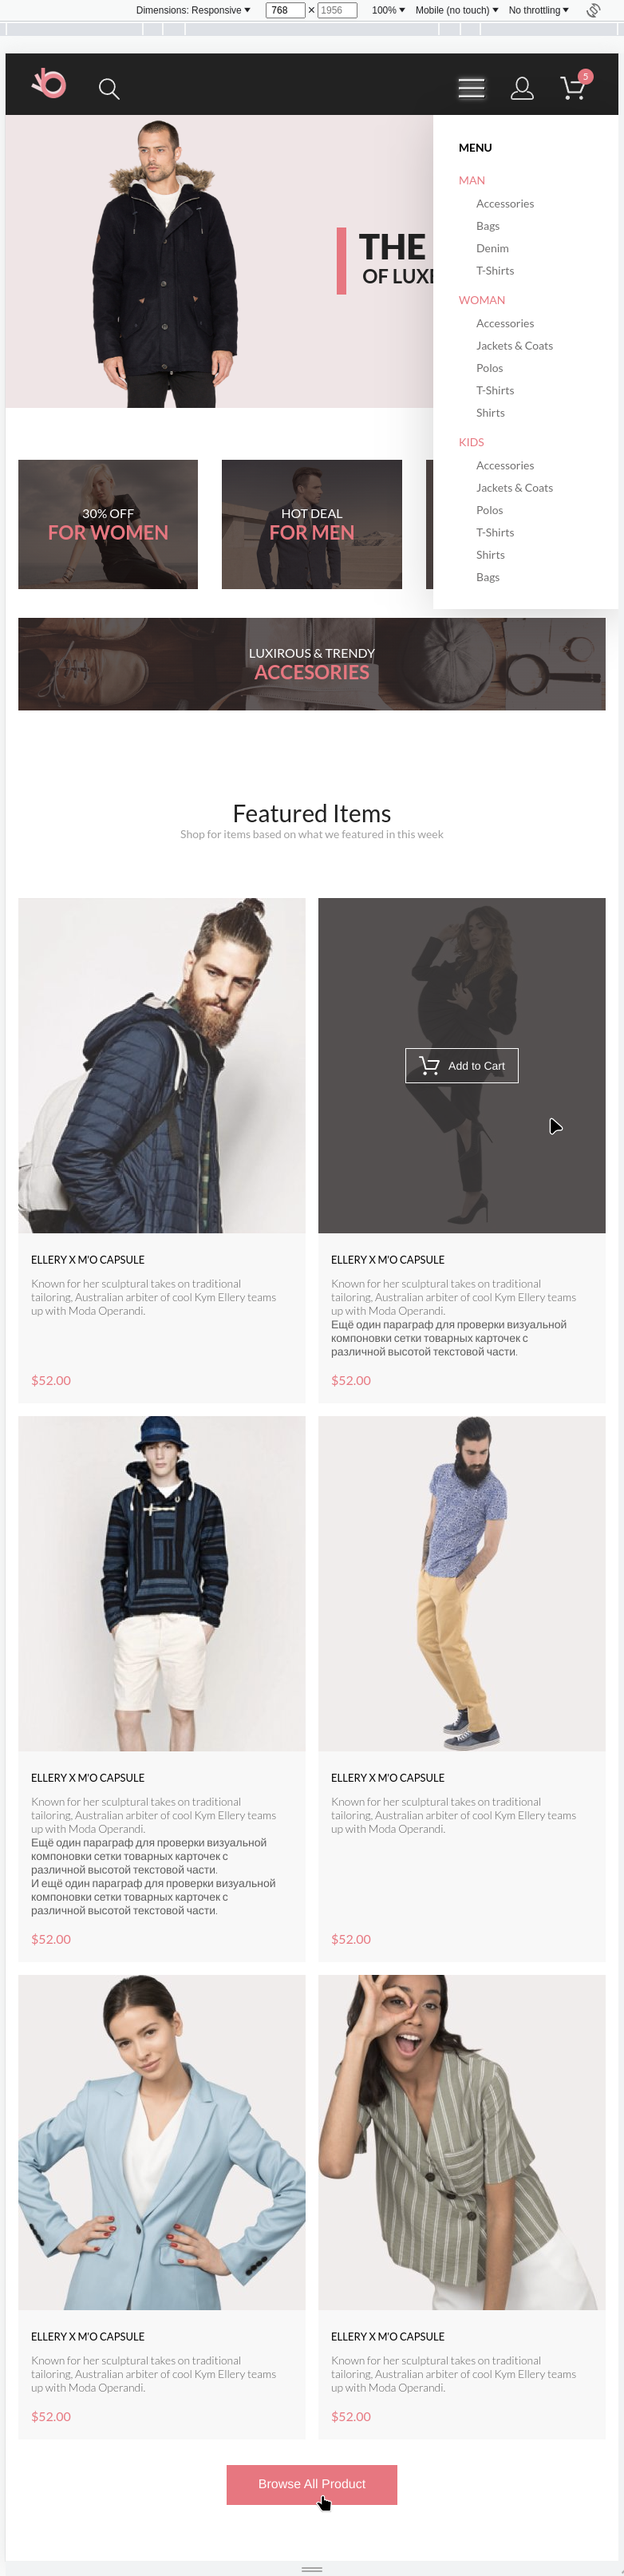
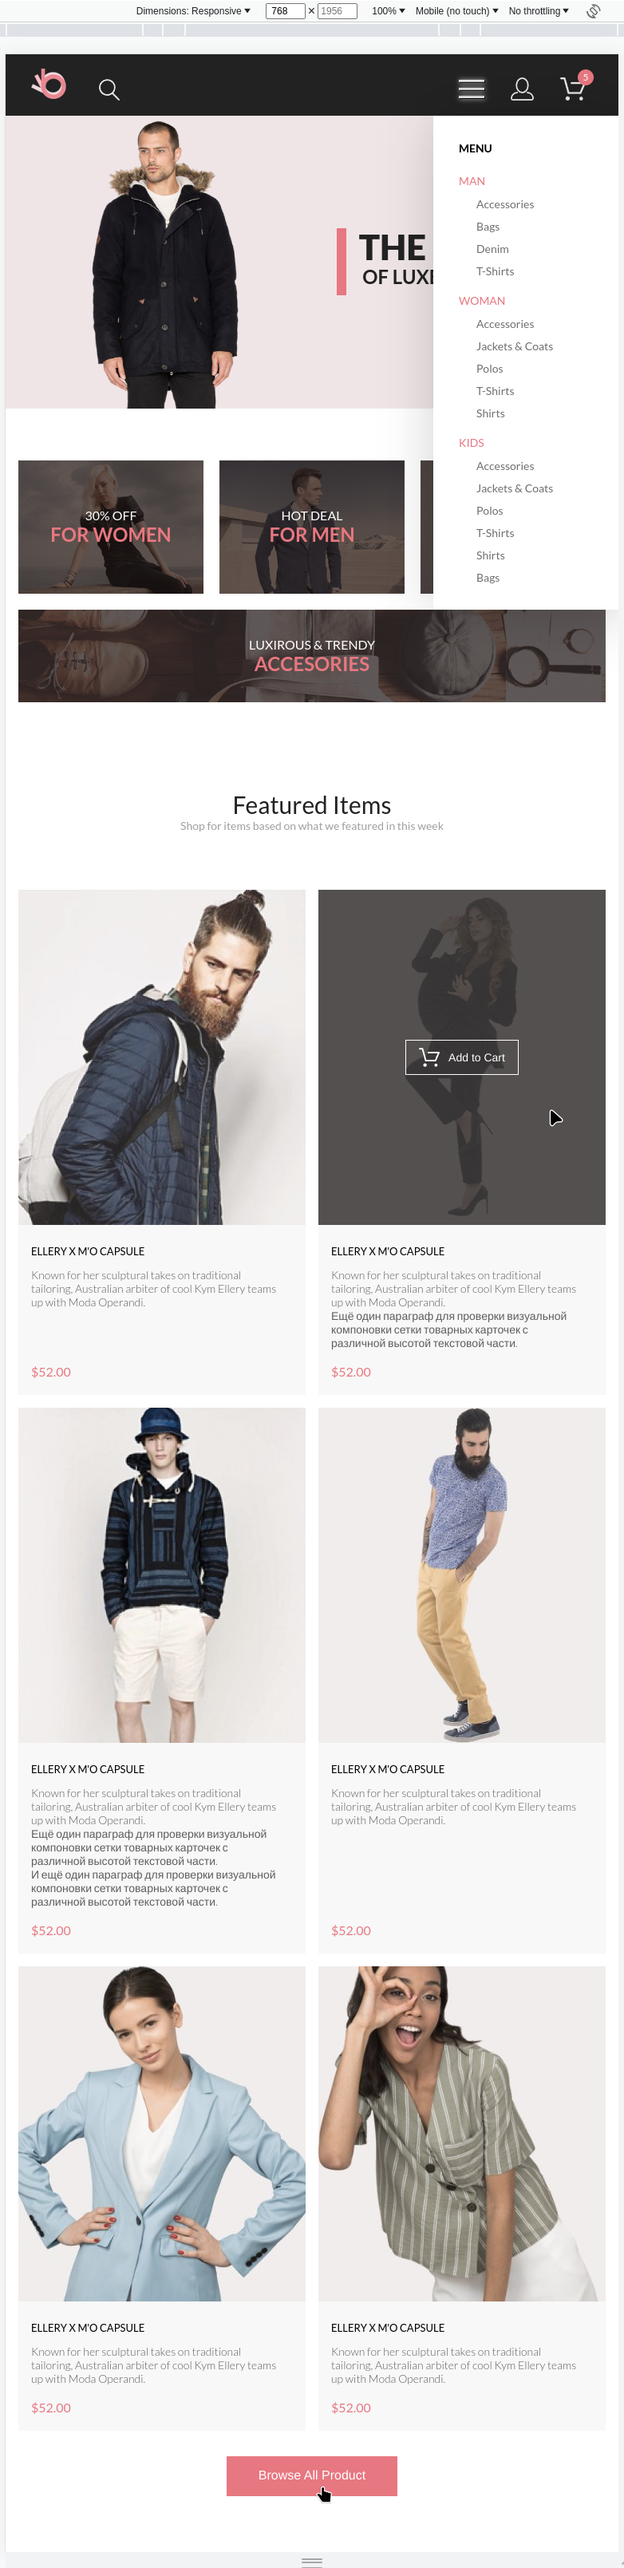
Updates and fixes mobile/tablet adaptations

diff --git a/hw8_mobile/style.css b/hw8_mobile/style.css
@@ -250,7 +250,8 @@ a {
 
 	display: grid;
 	/* grid-template-rows: 260px 180px; */
-	grid-template-rows: 26fr 18fr;
+	/* grid-template-rows: 26fr 18fr; */
+	grid-template-rows: repeat(2, auto);
 	grid-template-columns: repeat(3, 1fr);
 	grid-template-areas:
 		"women men kids"
@@ -259,8 +260,6 @@ a {
 }
 
 .offer__item {
-	position: relative;
-
 	display: flex;
 	flex-direction: column;
 	justify-content: center;
@@ -274,11 +273,11 @@ a {
 	--lightgray-bg: linear-gradient(var(--lightgray-color), var(--lightgray-color));
 }
 
-.offer__item.item_topline {
+.offer__item.item_common {
 	aspect-ratio: 36 / 26;
 }
 
-.offer__item.item_btmline {
+.offer__item.item_wide {
 	aspect-ratio: 114 / 18;
 }
 
@@ -473,6 +472,8 @@ a {
 	display: none;
 }
 
+/* TABLET */
+
 @media (max-width: 1024px) {
 
 	/* horiz spacing */
@@ -505,6 +506,7 @@ a {
 
 	.offer__content {
 		padding-bottom: 110px;
+		gap: 20px;
 	}
 
 	.products__items {
@@ -517,6 +519,8 @@ a {
 		padding-bottom: 70px;
 	}
 }
+
+/* MOBILE Hi */
 
 @media (max-width: 767px) {
 
@@ -543,7 +547,9 @@ a {
 	}
 }
 
-@media(max-width: 425px) {
+/* MOBILE Lo */
+
+@media(max-width: 426px) {
 
 	.no-mobile {
 		display: none;
@@ -580,7 +586,7 @@ a {
 		gap: 32px;
 	}
 
-	.offer__item.item_btmline {
+	.offer__item.item_wide {
 		padding-top: 30px;
 		padding-bottom: 30px;
 	}
@@ -588,7 +594,6 @@ a {
 	.products__items {
 		padding-top: 64px;
 		padding-bottom: 40px;
-
 	}
 
 	.products__content {

diff --git a/hw8_mobile/index.html b/hw8_mobile/index.html
@@ -104,19 +104,19 @@
 
 	<section class="offer  spacing_h">
 		<div class="offer__content  center">
-			<div class="offer__item item-women item_topline" role="button">
+			<div class="offer__item item-women item_common" role="button">
 				<h3 class="offer__subcategory  item__title">30% off</h3>
 				<h2 class="offer__category  item__title">For Women</h2>
 			</div>
-			<div class="offer__item item-men item_topline" role="button">
+			<div class="offer__item item-men item_common" role="button">
 				<h3 class="offer__subcategory  item__title">Hot deal</h3>
 				<h2 class="offer__category  item__title">For Men</h2>
 			</div>
-			<div class="offer__item item-kids item_topline" role="button">
+			<div class="offer__item item-kids item_common" role="button">
 				<h3 class="offer__subcategory  item__title">New arrivals</h3>
 				<h2 class="offer__category  item__title">For Kids</h2>
 			</div>
-			<div class="offer__item item-accessories item_btmline" role="button">
+			<div class="offer__item item-accessories item_wide" role="button">
 				<h3 class="offer__subcategory  item__title">Luxirous & trendy</h3>
 				<h2 class="offer__category  item__title">Accesories</h2>
 			</div>

diff --git a/hw7_tablet/index.html b/hw7_tablet/index.html
@@ -102,19 +102,19 @@
 
 	<section class="offer">
 		<div class="offer__content  center">
-			<div class="offer__item item-women item_topline" role="button">
+			<div class="offer__item item-women item_common" role="button">
 				<h3 class="offer__subcategory  item__title">30% off</h3>
 				<h2 class="offer__category  item__title">For Women</h2>
 			</div>
-			<div class="offer__item item-men item_topline" role="button">
+			<div class="offer__item item-men item_common" role="button">
 				<h3 class="offer__subcategory  item__title">Hot deal</h3>
 				<h2 class="offer__category  item__title">For Men</h2>
 			</div>
-			<div class="offer__item item-kids item_topline" role="button">
+			<div class="offer__item item-kids item_common" role="button">
 				<h3 class="offer__subcategory  item__title">New arrivals</h3>
 				<h2 class="offer__category  item__title">For Kids</h2>
 			</div>
-			<div class="offer__item item-accessories item_btmline" role="button">
+			<div class="offer__item item-accessories item_wide" role="button">
 				<h3 class="offer__subcategory  item__title">Luxirous & trendy</h3>
 				<h2 class="offer__category  item__title">Accesories</h2>
 			</div>

diff --git a/hw7_tablet/style.css b/hw7_tablet/style.css
@@ -244,7 +244,8 @@ a {
 
 	display: grid;
 	/* grid-template-rows: 260px 180px; */
-	grid-template-rows: 26fr 18fr;
+	/* grid-template-rows: 26fr 18fr; */
+	grid-template-rows: repeat(2, auto);
 	grid-template-columns: repeat(3, 1fr);
 	grid-template-areas:
 		"women men kids"
@@ -253,8 +254,6 @@ a {
 }
 
 .offer__item {
-	position: relative;
-
 	display: flex;
 	flex-direction: column;
 	justify-content: center;
@@ -268,11 +267,11 @@ a {
 	--lightgray-bg: linear-gradient(var(--lightgray-color), var(--lightgray-color));
 }
 
-.offer__item.item_topline {
+.offer__item.item_common {
 	aspect-ratio: 36 / 26;
 }
 
-.offer__item.item_btmline {
+.offer__item.item_wide {
 	aspect-ratio: 114 / 18;
 }
 
@@ -492,6 +491,7 @@ a {
 
 	.offer__content {
 		padding-bottom: 110px;
+		gap: 20px;
 	}
 
 	.offer__content,
